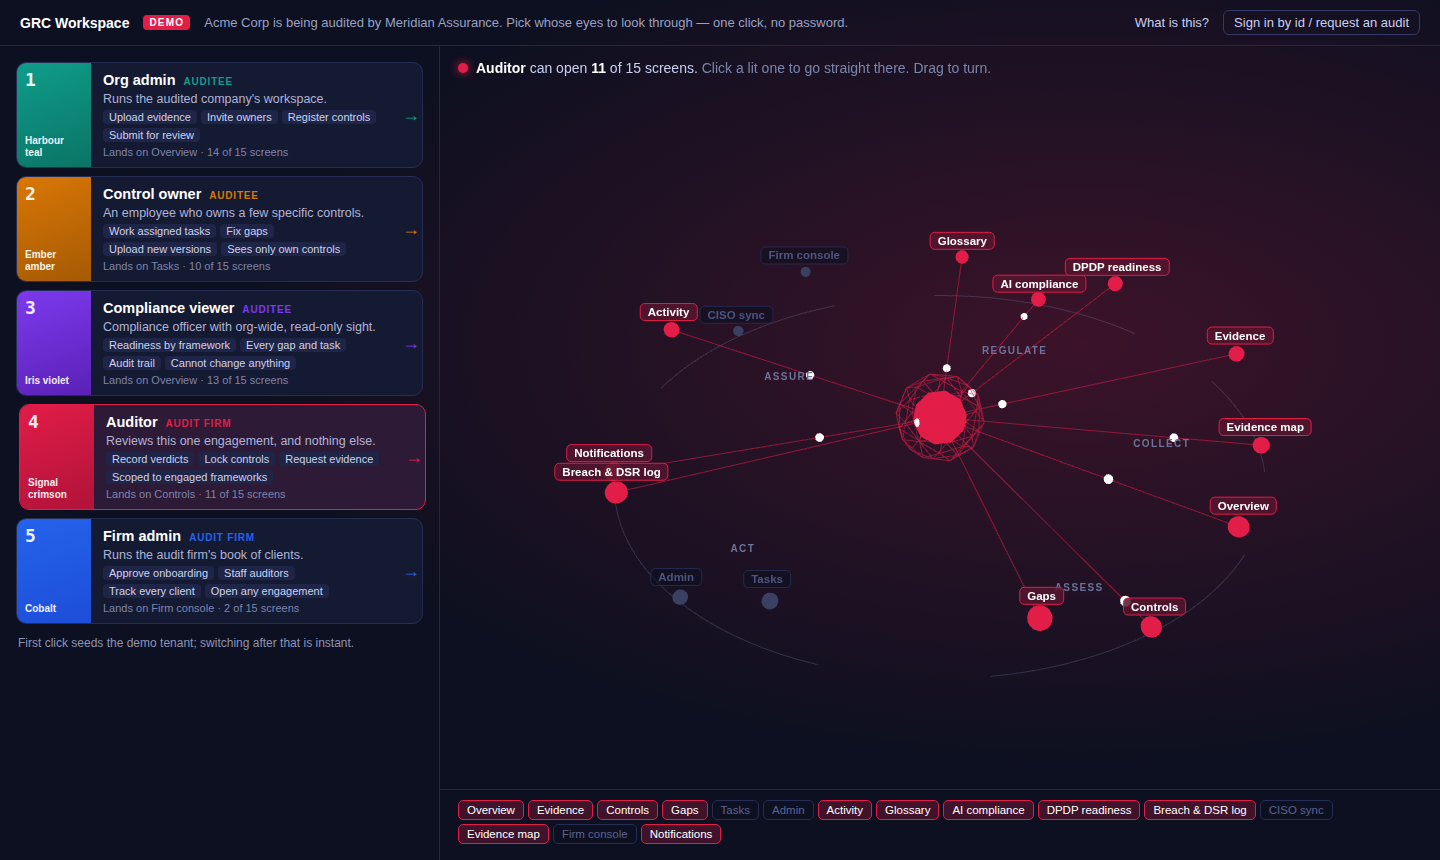
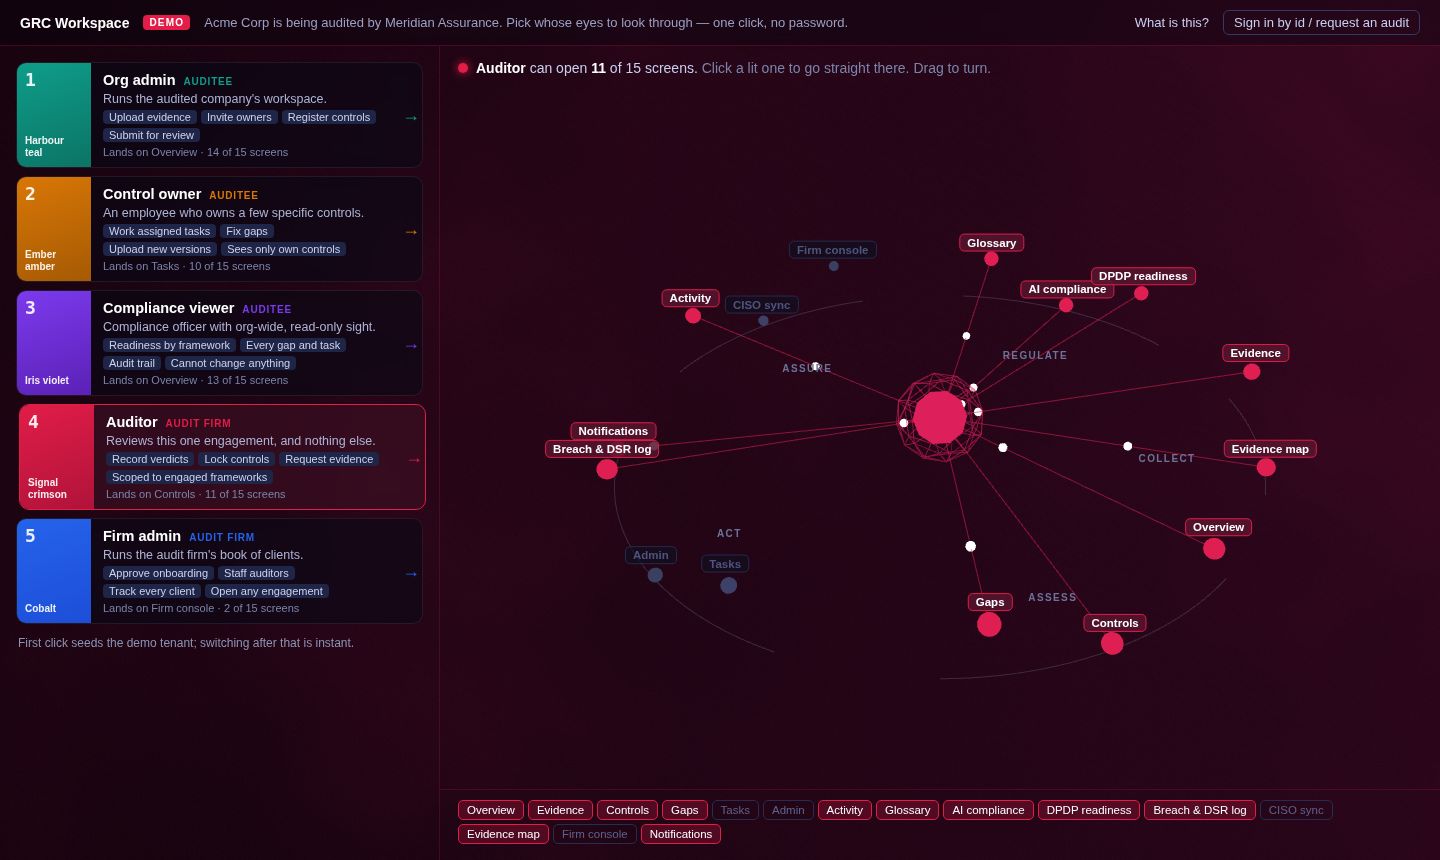
Login: role-tinted, slowly moving three.js surface behind the deck
The login background is now a deep shade of the hovered role's colour,
drawn by a single full-screen shader (domain-warped noise drifting very
slowly) that eases between roles. The deck, header and map sit on it as
translucent panels. Static under prefers-reduced-motion; a CSS shade of
the same colour shows if WebGL is unavailable. Loads in its own chunk.

Claude-Session: https://claude.ai/code/session_01FL2U6woBHGhdyGzEmmfLFU

diff --git a/frontend/src/components/RoleSurface.tsx b/frontend/src/components/RoleSurface.tsx
@@ -1,0 +1,113 @@
+import { useEffect, useRef } from "react";
+import * as THREE from "three";
+
+// The login page's canvas: a deep shade of the hovered role's colour, with a
+// slow drift of lighter and darker patches so the surface feels alive without
+// competing with the deck or the map. The colour eases between roles rather
+// than cutting, which is what makes hovering down the deck read as a change of
+// lens. One full-screen quad, one fragment shader.
+
+const FRAG = /* glsl */ `
+  precision mediump float;
+  uniform vec2 uRes;
+  uniform float uTime;
+  uniform vec3 uColor;
+  varying vec2 vUv;
+
+  float hash(vec2 p) { return fract(sin(dot(p, vec2(127.1, 311.7))) * 43758.5453); }
+  float noise(vec2 p) {
+    vec2 i = floor(p), f = fract(p);
+    vec2 u = f * f * (3.0 - 2.0 * f);
+    return mix(mix(hash(i), hash(i + vec2(1, 0)), u.x), mix(hash(i + vec2(0, 1)), hash(i + vec2(1, 1)), u.x), u.y);
+  }
+  float fbm(vec2 p) {
+    float v = 0.0, a = 0.5;
+    for (int i = 0; i < 4; i++) { v += a * noise(p); p *= 2.02; a *= 0.5; }
+    return v;
+  }
+
+  void main() {
+    vec2 p = vUv * vec2(uRes.x / uRes.y, 1.0);
+    float t = uTime * 0.035;
+    // Domain-warped noise: soft, slowly folding bands of light.
+    vec2 q = vec2(fbm(p * 1.4 + t), fbm(p * 1.4 - t + 3.1));
+    float n = fbm(p * 1.8 + q * 1.6 + vec2(t * 0.6, -t * 0.4));
+
+    vec3 deep = uColor * 0.22 + vec3(0.01, 0.012, 0.025);   // the surface itself
+    vec3 lift = uColor * 0.48 + vec3(0.02);                   // its highlights
+    vec3 col = mix(deep, lift, smoothstep(0.35, 0.95, n) * 0.6);
+
+    // Brighter toward the map side, darker under the deck and at the edges.
+    col *= 0.78 + 0.35 * smoothstep(0.0, 1.0, vUv.x);
+    float vig = smoothstep(1.25, 0.35, length(vUv - vec2(0.6, 0.5)));
+    col *= 0.7 + 0.3 * vig;
+
+    // A little grain so the gradient never bands on cheap panels.
+    col += (hash(gl_FragCoord.xy + uTime) - 0.5) * 0.012;
+    gl_FragColor = vec4(col, 1.0);
+  }
+`;
+
+export default function RoleSurface({ color }: { color: string }) {
+  const host = useRef<HTMLDivElement>(null);
+  const target = useRef(new THREE.Color(color));
+  target.current.set(color);
+
+  useEffect(() => {
+    const el = host.current;
+    if (!el) return;
+    const reduced = window.matchMedia("(prefers-reduced-motion: reduce)").matches;
+
+    const renderer = new THREE.WebGLRenderer({ antialias: false, alpha: false });
+    renderer.setPixelRatio(Math.min(window.devicePixelRatio, 1.5));
+    el.appendChild(renderer.domElement);
+
+    const uniforms = {
+      uRes: { value: new THREE.Vector2(1, 1) },
+      uTime: { value: 0 },
+      uColor: { value: target.current.clone() },
+    };
+    const material = new THREE.ShaderMaterial({
+      uniforms,
+      vertexShader: "varying vec2 vUv; void main() { vUv = uv; gl_Position = vec4(position.xy, 0.0, 1.0); }",
+      fragmentShader: FRAG,
+      depthTest: false,
+      depthWrite: false,
+    });
+    const quad = new THREE.Mesh(new THREE.PlaneGeometry(2, 2), material);
+    const scene = new THREE.Scene();
+    scene.add(quad);
+    const camera = new THREE.OrthographicCamera(-1, 1, 1, -1, 0, 1);
+
+    const resize = () => {
+      const w = el.clientWidth || 1;
+      const h = el.clientHeight || 1;
+      renderer.setSize(w, h, false);
+      uniforms.uRes.value.set(w, h);
+    };
+    const ro = new ResizeObserver(resize);
+    ro.observe(el);
+    resize();
+
+    const clock = new THREE.Clock();
+    let frame = 0;
+    const tick = () => {
+      frame = requestAnimationFrame(tick);
+      if (!reduced) uniforms.uTime.value = clock.getElapsedTime();
+      uniforms.uColor.value.lerp(target.current, 0.05);
+      renderer.render(scene, camera);
+    };
+    tick();
+
+    return () => {
+      cancelAnimationFrame(frame);
+      ro.disconnect();
+      quad.geometry.dispose();
+      material.dispose();
+      renderer.dispose();
+      el.innerHTML = "";
+    };
+  }, []);
+
+  return <div ref={host} className="role-surface" aria-hidden />;
+}

diff --git a/frontend/src/index.css b/frontend/src/index.css
@@ -1175,16 +1175,20 @@ html.deck-mode body { background: #0e1120; }
 
 .gate {
   --role: #0f9d8a;
+  position: relative; isolation: isolate;
   min-height: 100vh; display: flex; flex-direction: column;
-  background:
-    radial-gradient(1200px 600px at 75% 40%, color-mix(in srgb, var(--role) 22%, transparent), transparent 70%),
-    #0d1020;
+  /* Shown until the three.js surface (RoleSurface) paints, and if WebGL is off. */
+  background: color-mix(in srgb, var(--role) 20%, #07080f);
   color: #dfe3f5;
   transition: background .4s;
 }
+.role-surface { position: fixed; inset: 0; z-index: -1; pointer-events: none; }
+.role-surface canvas { display: block; width: 100%; height: 100%; }
 .gate-bar {
   display: flex; align-items: center; gap: 14px; flex-wrap: wrap;
-  padding: 10px 20px; border-bottom: 1px solid #22284a; font-size: 13px;
+  padding: 10px 20px; font-size: 13px;
+  border-bottom: 1px solid color-mix(in srgb, var(--role) 25%, transparent);
+  background: rgba(5, 6, 14, .35); backdrop-filter: blur(6px);
 }
 .gate-bar strong { color: #fff; font-size: 14px; }
 .gate-bar__demo { font-size: 10px; font-weight: 800; letter-spacing: .12em; padding: 2px 6px; border-radius: 4px; background: var(--role); color: #fff; }
@@ -1196,14 +1200,15 @@ html.deck-mode body { background: #0e1120; }
 .gate-grid { flex: 1; display: grid; grid-template-columns: minmax(340px, 440px) 1fr; min-height: 0; }
 .gate-manual { flex: 1; display: flex; justify-content: center; padding: 28px 16px; color: var(--text); }
 
-.role-deck { display: flex; flex-direction: column; gap: 8px; padding: 16px; border-right: 1px solid #22284a; overflow-y: auto; }
+.role-deck { display: flex; flex-direction: column; gap: 8px; padding: 16px; border-right: 1px solid color-mix(in srgb, var(--role) 20%, transparent); overflow-y: auto; }
 .role-card {
   display: grid; grid-template-columns: 74px 1fr 20px; align-items: stretch;
   text-align: left; padding: 0; overflow: hidden; cursor: pointer;
-  background: #151a33; color: inherit; border: 1px solid #262d55; border-radius: 10px;
+  background: rgba(8, 10, 22, .55); backdrop-filter: blur(8px); color: inherit;
+  border: 1px solid rgba(255, 255, 255, .08); border-radius: 10px;
   transition: border-color .15s, transform .15s, background .15s;
 }
-.role-card:hover, .role-card.is-active { border-color: var(--c); background: color-mix(in srgb, var(--c) 12%, #151a33); transform: translateX(3px); }
+.role-card:hover, .role-card.is-active { border-color: var(--c); background: color-mix(in srgb, var(--c) 16%, rgba(8, 10, 22, .6)); transform: translateX(3px); }
 .role-card[disabled] { cursor: progress; }
 .role-card__swatch {
   display: flex; flex-direction: column; justify-content: space-between; padding: 8px;
@@ -1228,7 +1233,7 @@ html.deck-mode body { background: #0e1120; }
 .gate-map__caption strong { color: #fff; }
 .gate-map__caption .muted { color: #7d84ab; }
 .gate-map__dot { display: inline-block; width: 10px; height: 10px; border-radius: 50%; background: var(--role); margin-right: 8px; box-shadow: 0 0 10px var(--role); }
-.gate-map__list { display: flex; flex-wrap: wrap; gap: 4px; list-style: none; margin: 0; padding: 10px 18px 16px; border-top: 1px solid #22284a; }
+.gate-map__list { display: flex; flex-wrap: wrap; gap: 4px; list-style: none; margin: 0; padding: 10px 18px 16px; border-top: 1px solid color-mix(in srgb, var(--role) 20%, transparent); }
 .gate-map__list li span, .gate-map__list li button { display: inline-block; font-size: 11.5px; padding: 3px 8px; border-radius: 5px; border: 1px solid #262d55; color: #5d6390; background: none; }
 .gate-map__list li.is-on button { color: #fff; border-color: var(--role); background: color-mix(in srgb, var(--role) 25%, transparent); cursor: pointer; }
 

diff --git a/frontend/src/pages/Login.tsx b/frontend/src/pages/Login.tsx
@@ -11,6 +11,7 @@ import { FEATURES, reachOf } from "../lib/nav";
 
 // three.js is only needed for the map, so it arrives in its own chunk.
 const FeatureConstellation = lazy(() => import("../components/FeatureConstellation"));
+const RoleSurface = lazy(() => import("../components/RoleSurface"));
 
 const FRAMEWORKS = ["ISO-27001", "PCI-DSS", "SOC-2", "NIST-CSF", "HIPAA", "CIS-CONTROLS", "GDPR"];
 
@@ -75,6 +76,9 @@ function DemoGate() {
 
   return (
     <div className="gate" style={{ "--role": active.color, "--role-dark": active.dark } as React.CSSProperties}>
+      <Suspense fallback={null}>
+        <RoleSurface color={active.color} />
+      </Suspense>
       <header className="gate-bar">
         <strong>GRC Workspace</strong>
         <span className="gate-bar__demo">DEMO</span>
